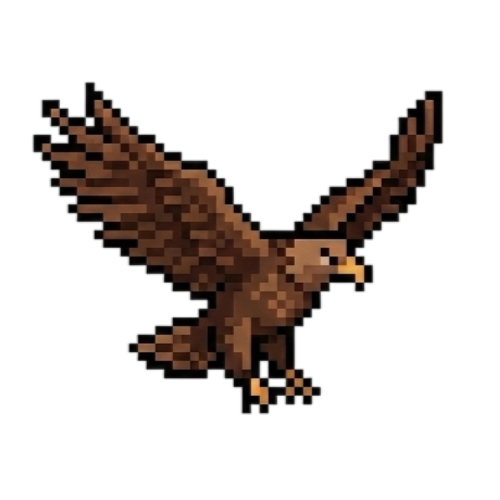
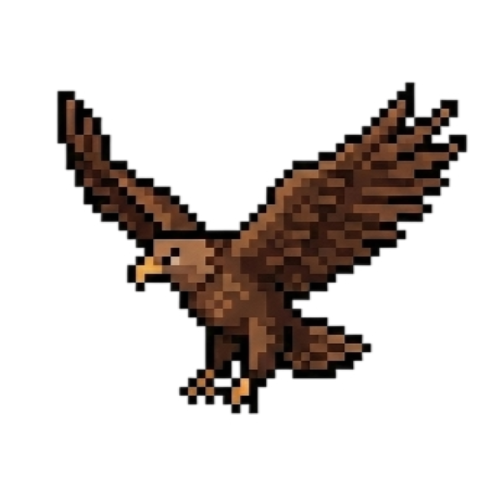
level menu and eagle direction update(internals need to be edited)

Changed region(s): [[0.06, 0.15, 0.96, 0.84]]

diff --git a/src/main/resources/styles/level_menu.css b/src/main/resources/styles/level_menu.css
@@ -15,6 +15,47 @@
     -fx-text-fill: #ab691e;
 }
 
+/* ── Level Select Buttons ── */
+.level-select-button {
+    -fx-background-color: #F4EBD0;
+    -fx-border-color: #C67F2F;
+    -fx-border-width: 4px;
+    -fx-border-radius: 12px;
+    -fx-background-radius: 12px;
+    -fx-pref-width: 340px;
+    -fx-pref-height: 72px;
+    -fx-cursor: hand;
+    -fx-effect: dropshadow(two-pass-box, rgba(0,0,0,0.4), 0, 0, 4, 3);
+}
+
+.level-select-button:hover {
+    -fx-background-color: #FFF5DC;
+    -fx-scale-x: 1.06;
+    -fx-scale-y: 1.06;
+    -fx-effect: dropshadow(two-pass-box, rgba(198,127,47,0.6), 0, 0, 8, 4);
+}
+
+.level-select-button:pressed {
+    -fx-scale-x: 0.97;
+    -fx-scale-y: 0.97;
+}
+
+/* Title text inside the level button */
+.level-btn-title {
+    -fx-font-family: "Press Start 2P";
+    -fx-font-size: 18px;
+    -fx-text-fill: #ab691e;
+    -fx-effect: dropshadow(one-pass-box, black, 0, 0, 1, 1);
+}
+
+/* Subtitle text inside the level button */
+.level-btn-sub {
+    -fx-font-family: "Press Start 2P";
+    -fx-font-size: 10px;
+    -fx-text-fill: #c8893a;
+}
+
+/* ── Close Button ── */
 .level-close {
     -fx-background-color: transparent;
     -fx-font-family: "Press Start 2P";
@@ -30,10 +71,4 @@
 .level-close:hover {
     -fx-font-size: 36px;
     -fx-text-fill: #C67F2F;
-}
-
-/* Additional hover effects for interactive elements */
-.level-close:hover,
-.music-toggle:hover {
-    -fx-cursor: hand;
 }

diff --git a/src/main/java/edu/bauet/java/cse/duckrun/ui/LevelMenu.java b/src/main/java/edu/bauet/java/cse/duckrun/ui/LevelMenu.java
@@ -1,5 +1,10 @@
 package edu.bauet.java.cse.duckrun.ui;
 
+import edu.bauet.java.cse.duckrun.MainApp;
+import edu.bauet.java.cse.duckrun.levels.Level1;
+import edu.bauet.java.cse.duckrun.levels.Level2;
+import edu.bauet.java.cse.duckrun.levels.Level3;
+import edu.bauet.java.cse.duckrun.scenes.GameScene;
 import javafx.geometry.Insets;
 import javafx.geometry.Pos;
 import javafx.scene.control.Button;
@@ -12,50 +17,96 @@ import javafx.scene.layout.VBox;
 public class LevelMenu extends StackPane {
     private Runnable onClose;
 
-    //close action
     public LevelMenu(Runnable onCloseAction) {
         this.onClose = onCloseAction;
         initialize();
     }
 
     private void initialize() {
-        //initially hidden
+        // Initially hidden
         this.setVisible(false);
-        //set style class
         this.getStyleClass().add("level-box");
 
         this.setPrefSize(925, 546);
         this.setMaxSize(925, 546);
-        //link with CSS file
+
+        // Link with CSS file
         this.getStylesheets().add(getClass().getResource("/styles/level_menu.css").toExternalForm());
 
-        //frame image
+        // Frame image
         Image frameImg = new Image(getClass().getResourceAsStream("/images/pause_menu/settings_menu_frame.png"));
         ImageView frameView = new ImageView(frameImg);
 
+        // --- Content Layout ---
         VBox contentLayout = new VBox(20);
         contentLayout.setAlignment(Pos.TOP_CENTER);
 
         Label titleLabel = new Label("LEVELS");
         titleLabel.getStyleClass().add("level-title");
-        VBox.setMargin(titleLabel, new Insets(60, 0, 0, 0));
+        VBox.setMargin(titleLabel, new Insets(55, 0, 20, 0));
 
-        // Placeholder for future Leaderboard data
-        Label infoLabel = new Label("Levels Coming Soon!");
-        infoLabel.getStyleClass().add("level-info");
-        contentLayout.getChildren().addAll(titleLabel,infoLabel);
+        // --- Level Buttons Column ---
+        VBox levelButtonsBox = new VBox(16);
+        levelButtonsBox.setAlignment(Pos.CENTER);
 
+        Button btnLevel1 = createLevelButton("LEVEL 1", "Hall Corridor");
+        Button btnLevel2 = createLevelButton("LEVEL 2", "The Street");
+        Button btnLevel3 = createLevelButton("LEVEL 3", "Academic Building");
 
-        // Close Button (X)
+        // Level 1 → Level1.java
+        btnLevel1.setOnAction(e -> {
+            Level1 level = new Level1(MainApp.WINDOW_HEIGHT - 130);
+            GameScene gameScene = new GameScene(level);
+            MainApp.switchScene(gameScene.getScene());
+        });
+
+        // Level 2 → Level2.java
+        btnLevel2.setOnAction(e -> {
+            Level2 level = new Level2(MainApp.WINDOW_HEIGHT - 130);
+            GameScene gameScene = new GameScene(level);
+            MainApp.switchScene(gameScene.getScene());
+        });
+
+        // Level 3 → Level3.java
+        btnLevel3.setOnAction(e -> {
+            Level3 level = new Level3(MainApp.WINDOW_HEIGHT - 130);
+            GameScene gameScene = new GameScene(level);
+            MainApp.switchScene(gameScene.getScene());
+        });
+
+        levelButtonsBox.getChildren().addAll(btnLevel1, btnLevel2, btnLevel3);
+        contentLayout.getChildren().addAll(titleLabel, levelButtonsBox);
+
+        // --- Close Button (X) ---
         Button closeButton = new Button("X");
         closeButton.getStyleClass().add("level-close");
         closeButton.setOnAction(e -> onClose.run());
 
-        // Position the Close button
         StackPane.setAlignment(closeButton, Pos.TOP_RIGHT);
         StackPane.setMargin(closeButton, new Insets(45, 65, 0, 0));
 
-        // final assembly (Order: Bottom to Top)
+        // Final assembly (Order: Bottom to Top)
         this.getChildren().addAll(frameView, contentLayout, closeButton);
+    }
+
+    /**
+     * Creates a styled level button with a title and subtitle.
+     */
+    private Button createLevelButton(String title, String subtitle) {
+        // Main label
+        Label titleLbl = new Label(title);
+        titleLbl.getStyleClass().add("level-btn-title");
+
+        // Subtitle label
+        Label subLbl = new Label(subtitle);
+        subLbl.getStyleClass().add("level-btn-sub");
+
+        VBox btnContent = new VBox(4, titleLbl, subLbl);
+        btnContent.setAlignment(Pos.CENTER);
+
+        Button btn = new Button();
+        btn.setGraphic(btnContent);
+        btn.getStyleClass().add("level-select-button");
+        return btn;
     }
 }

diff --git a/src/main/java/edu/bauet/java/cse/duckrun/utils/AssetLoader.java b/src/main/java/edu/bauet/java/cse/duckrun/utils/AssetLoader.java
@@ -156,6 +156,8 @@ public final class AssetLoader {
             "/images/pause_menu/settings_menu_frame.png",
 
             "/images/backgrounds/level1.png",
+            "/images/backgrounds/level2.png",
+            "/images/backgrounds/level3.png",
 
             "/images/ui/duck_emoji.png",
             "/images/ui/hall_background.png",
